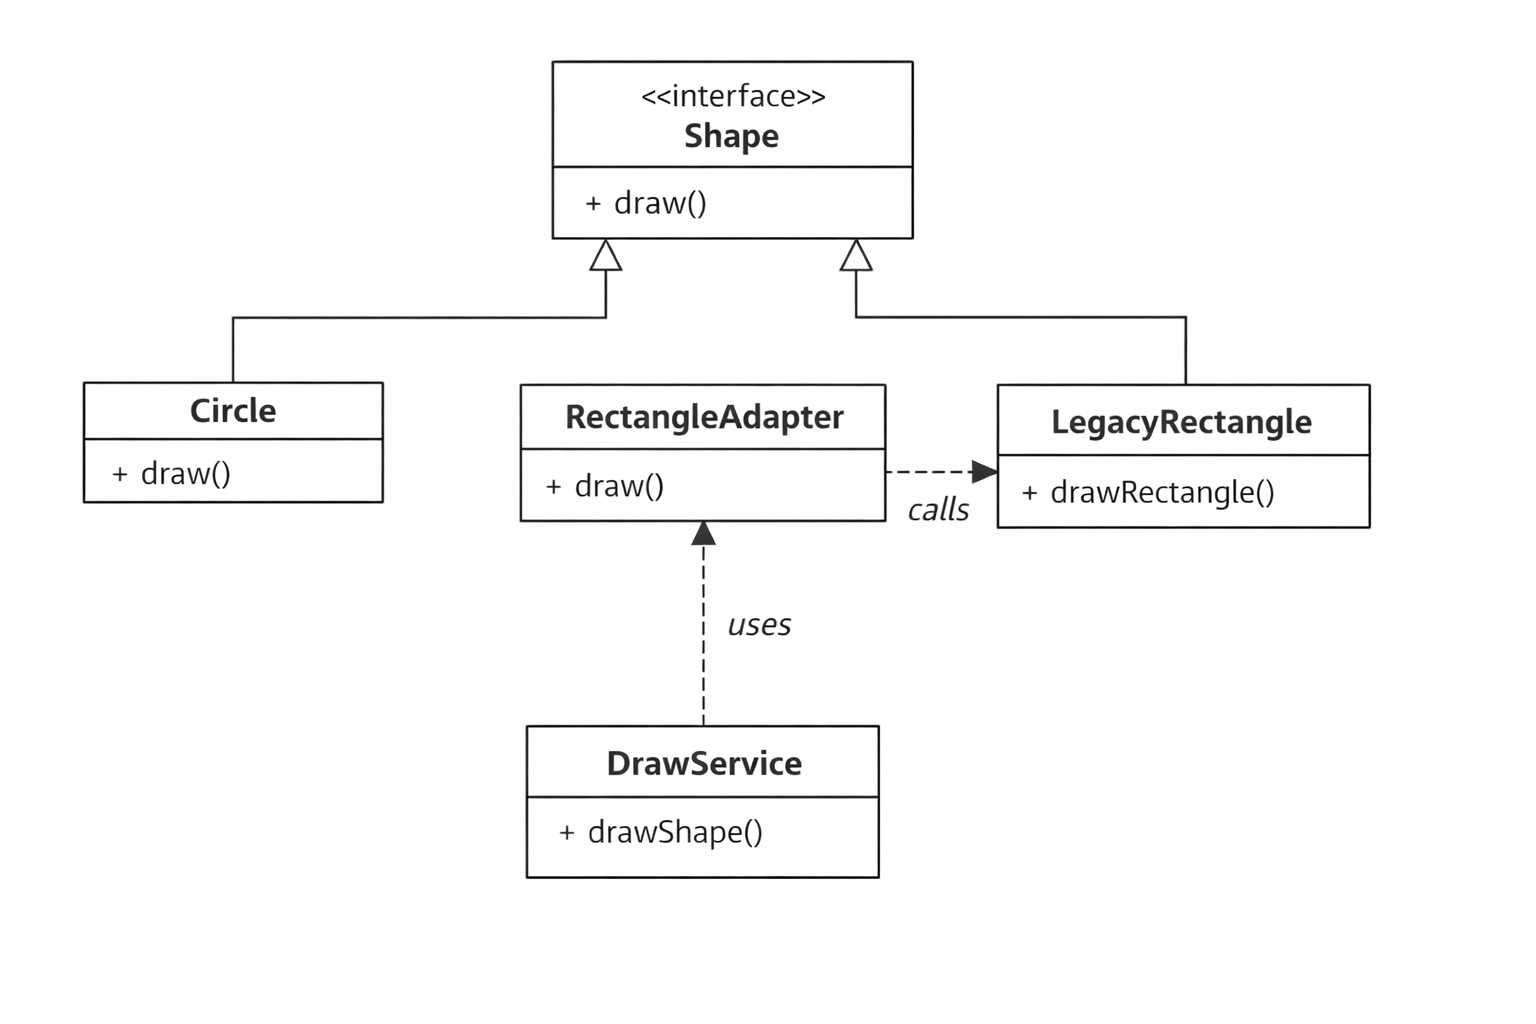
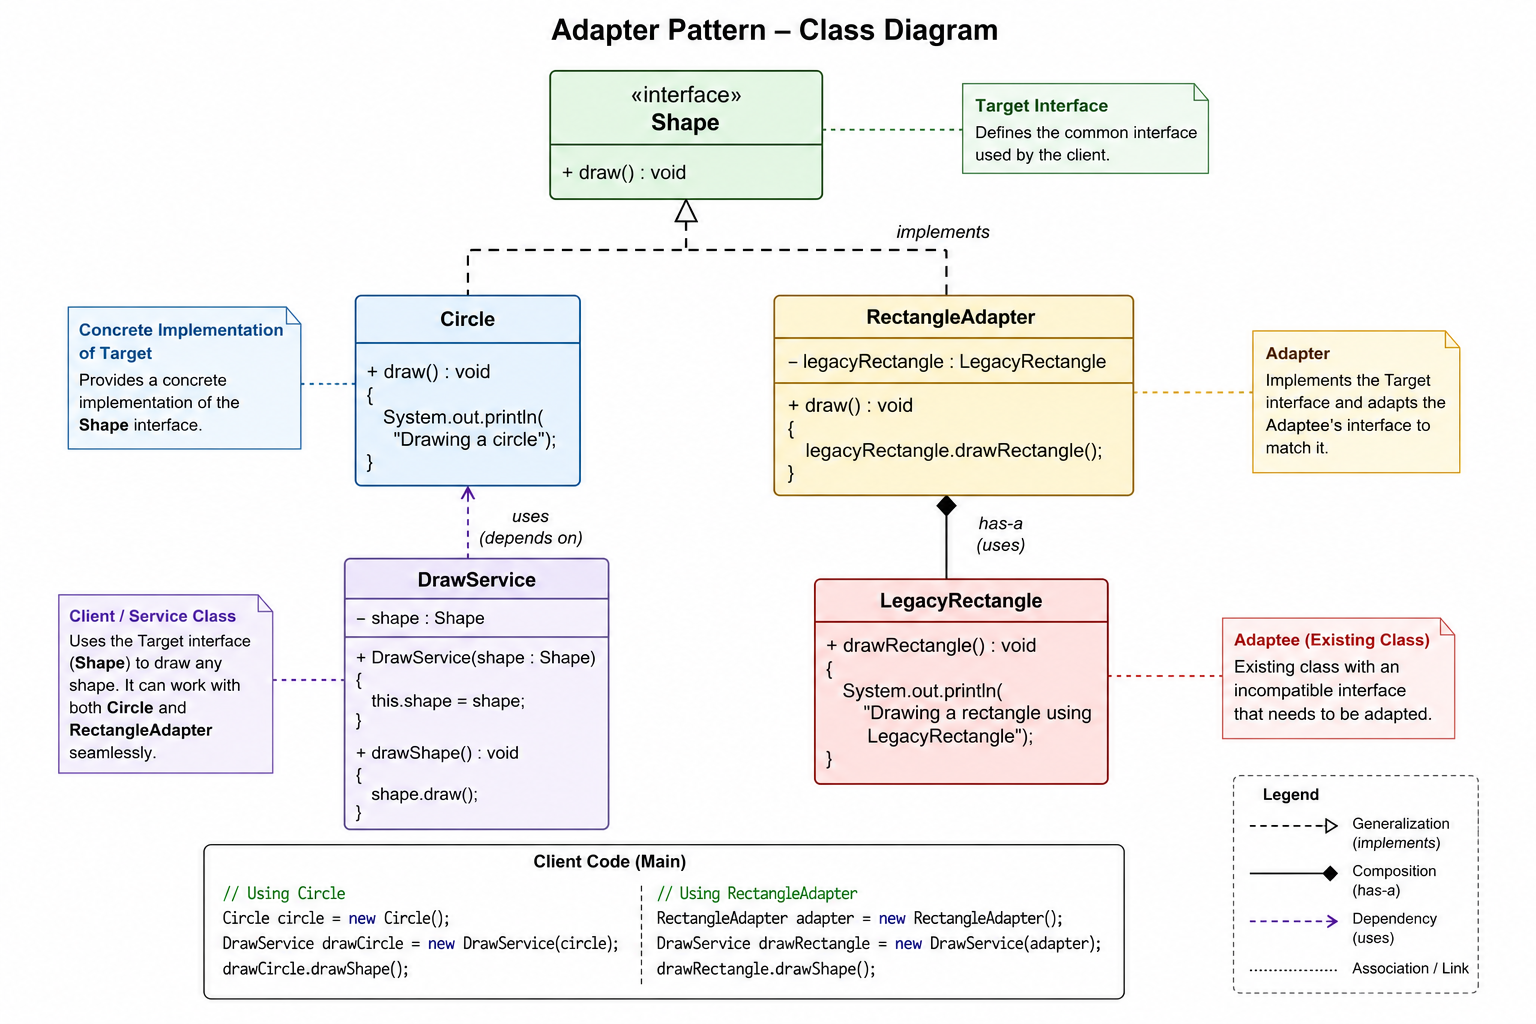
adapter pattern in java

diff --git a/structural design patterns/Adapter Pattern/Java/adapter_pattern.java b/structural design patterns/Adapter Pattern/Java/adapter_pattern.java
@@ -1,0 +1,76 @@
+/*
+In this example, we have a Target Interface called "Shape" that defines a method "draw()".
+We also have an Adaptee class called "LegacyRectangle" that has a different interface 
+with a method "drawRectangle()". The Adapter class "RectangleAdapter" implements the 
+Target Interface and adapts the Adaptee's interface to match it.
+
+When the client calls the "draw()" method on the Adapter, it internally calls the 
+"drawRectangle()" method of the Adaptee, allowing the two incompatible interfaces to 
+work together seamlessly.
+*/
+
+import java.util.*;
+
+// Target Interface
+interface Shape{
+    public void draw();
+}
+
+// Concrete implementation of the target interface
+class Circle implements Shape{
+    @Override
+    public void draw(){
+        System.out.println("Drawing a circle");
+    }
+}
+
+// Adaptee or Existing class with an incompatible interface
+class LegacyRectangle{
+    public void drawRectangle(){
+        System.out.println("Drawing a rectangle using LegacyRectangle");
+    }
+}
+
+// Adapter or Wrapper class that implements the target interface and adapts adaptee's interafce
+class RectangleAdapter implements Shape{
+    /*
+    The RectangleAdapter class has a private member variable that holds a pointer 
+    to the LegacyRectangle object.
+    */
+    private LegacyRectangle legacyRectangle = new LegacyRectangle();
+
+    @Override
+    public void draw(){
+        this.legacyRectangle.drawRectangle();
+    }
+}
+
+// Client code
+// Draw service class that uses the target interface
+class DrawService{
+    private Shape shape;
+
+    // Constructor to set the shape
+    DrawService(Shape shape){
+        this.shape=shape;
+    }
+
+    // Method to draw the shape
+    public void drawShape(){
+        this.shape.draw();
+    }
+}
+
+public class Main{
+    public static void main(String[] args){
+        // Create a circle object and use it with the DrawService
+        Circle circle = new Circle();
+        DrawService drawCircle = new DrawService(circle);
+        drawCircle.drawShape();
+
+        // Create a RectancleAdapter object and use it with the DrawService
+        RectangleAdapter rectangleAdapter = new RectangleAdapter();
+        DrawService drawRectangle = new DrawService(rectangleAdapter);
+        drawRectangle.drawShape();
+    }
+}

diff --git a/structural design patterns/Adapter Pattern/Java/readme.md b/structural design patterns/Adapter Pattern/Java/readme.md
@@ -1,0 +1,142 @@
+# Adapter Design Pattern
+
+## Introduction
+
+The Adapter Design Pattern is a structural design pattern that allows two incompatible interfaces to work together.
+
+It acts as a bridge between an existing class (Adaptee) and the interface expected by the client (Target).
+
+In the Adapter Pattern, there are typically three main components:
+
+1. Target Interface: This is the interface that the client expects to work with.
+   It defines the methods that the client will use.
+2. Adaptee: This is the existing class that has an incompatible interface.
+3. Adapter: This is the class that adapts the Adaptee's interface to match the Target Interface.
+
+Example:
+`LegacyRectangle` has method `drawRectangle()`, but client expects `Shape.draw()`.  
+`RectangleAdapter` converts `draw()` calls into `drawRectangle()` calls.
+
+---
+
+## Problem it Solves
+
+Existing classes may not match the interface required by new code.
+
+Example:
+
+LegacyRectangle rectangle;
+rectangle.drawRectangle(); // incompatible with Shape interface
+
+Issues:
+
+- Cannot use existing class directly
+- Interface mismatch
+- Modifying legacy code is risky
+- Tight coupling between client and implementation
+
+---
+
+## How Adapter Helps
+
+Adapter wraps the incompatible class and exposes the expected interface:
+
+```java
+Shape shape = new RectangleAdapter();
+shape.draw(); // internally calls LegacyRectangle.drawRectangle()
+```
+
+Benefits:
+
+- Reuse existing code without modification
+- Provides compatibility between interfaces
+- Promotes loose coupling
+- Improves flexibility and extensibility
+
+---
+
+## Structure
+
+Components of Adapter Pattern:
+
+1. Target Interface
+   - Interface expected by the client
+   - Example: `Shape` with `draw()`
+
+2. Adaptee
+   - Existing class with incompatible interface
+   - Example: `LegacyRectangle` with `drawRectangle()`
+
+3. Adapter
+   - Converts Target interface into Adaptee interface
+   - Example: `RectangleAdapter` implements `Shape`
+
+4. Client
+   - Uses objects through Target interface
+   - Example: `DrawService`
+
+---
+
+## Example Flow
+
+```java
+Circle circle = new Circle();
+DrawService drawCircle = new DrawService(circle);
+drawCircle.drawShape();
+// Output: Drawing a circle.
+
+RectangleAdapter rectangleAdapter = new RectangleAdapter();
+DrawService drawRectangle = new DrawService(rectangleAdapter);
+drawRectangle.drawShape();
+// Output: Drawing a rectangle using LegacyRectangle.
+```
+
+Steps:
+
+1. Client interacts with `Shape` interface
+2. Adapter implements `Shape`
+3. Adapter internally calls `LegacyRectangle`
+4. Client remains unaware of interface differences
+
+---
+
+## When to Use
+
+- Integrating legacy code
+- Interfaces do not match
+- Reuse existing classes
+- Want loose coupling between client and implementation
+- Need compatibility between libraries
+
+---
+
+## When Not to Use
+
+- Interfaces already compatible
+- New system design can directly follow common interface
+- Adds unnecessary complexity
+
+---
+
+## Advantages
+
+- Reuse legacy code
+- Improves maintainability
+- Promotes flexibility
+- Follows Open/Closed Principle
+- Client code remains unchanged
+
+---
+
+## Disadvantages
+
+- Extra layer of abstraction
+- Increases number of classes
+- Can slightly increase complexity
+
+---
+
+## Summary
+
+Use Adapter Pattern when two incompatible interfaces need to work together without modifying existing code.  
+It provides a clean and maintainable way to integrate legacy systems into modern applications.
